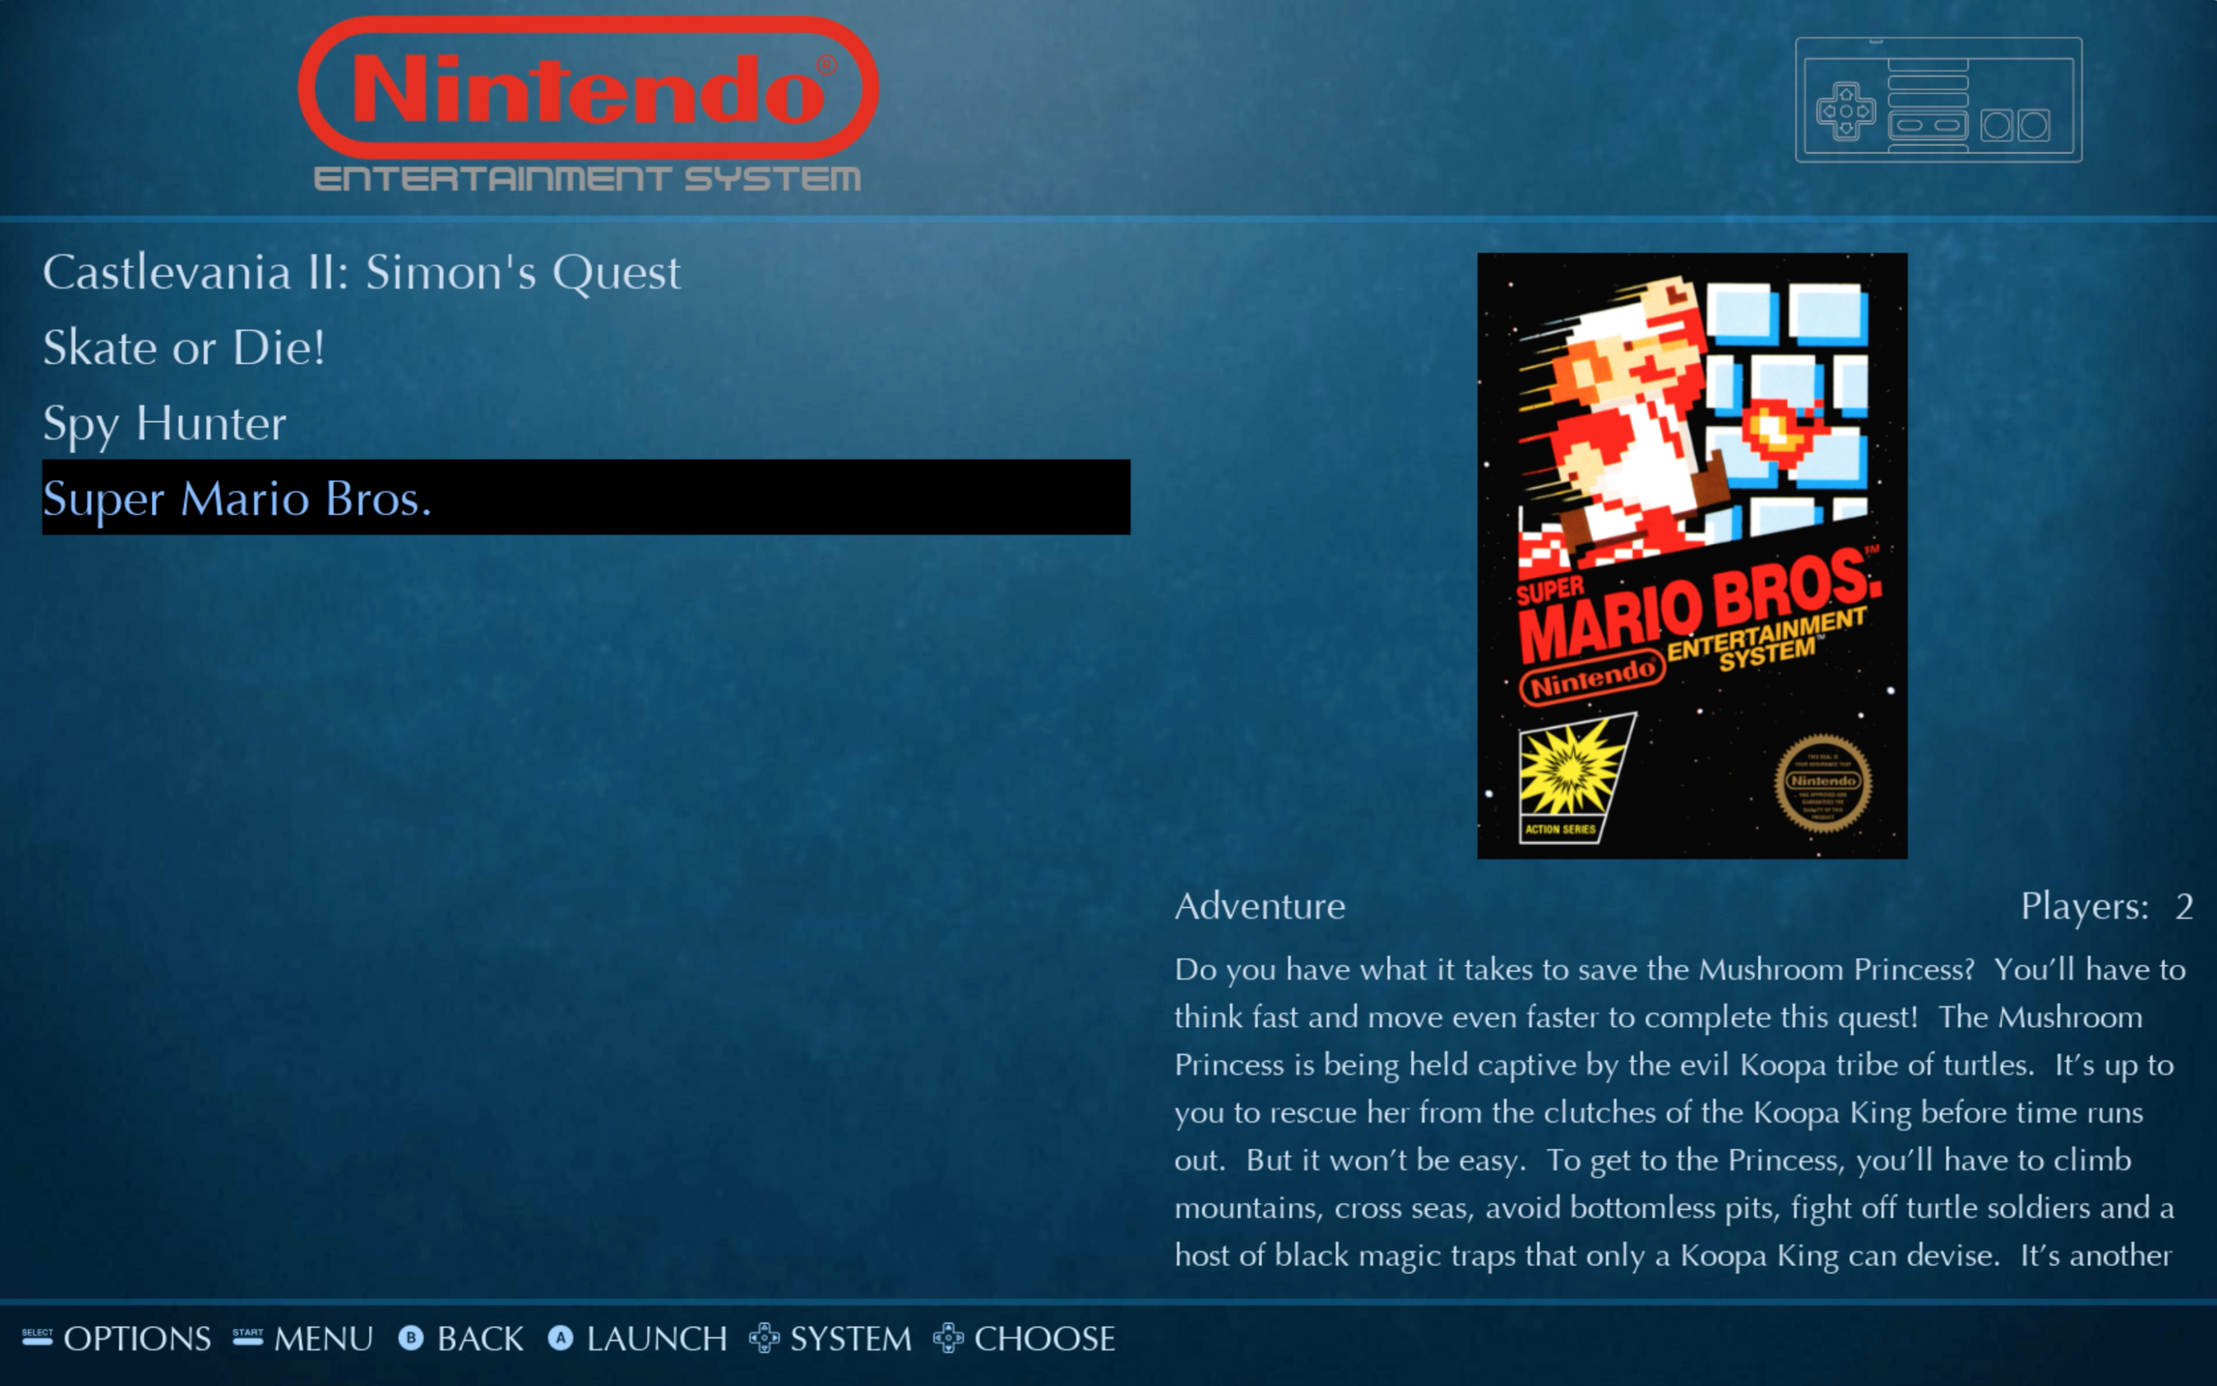
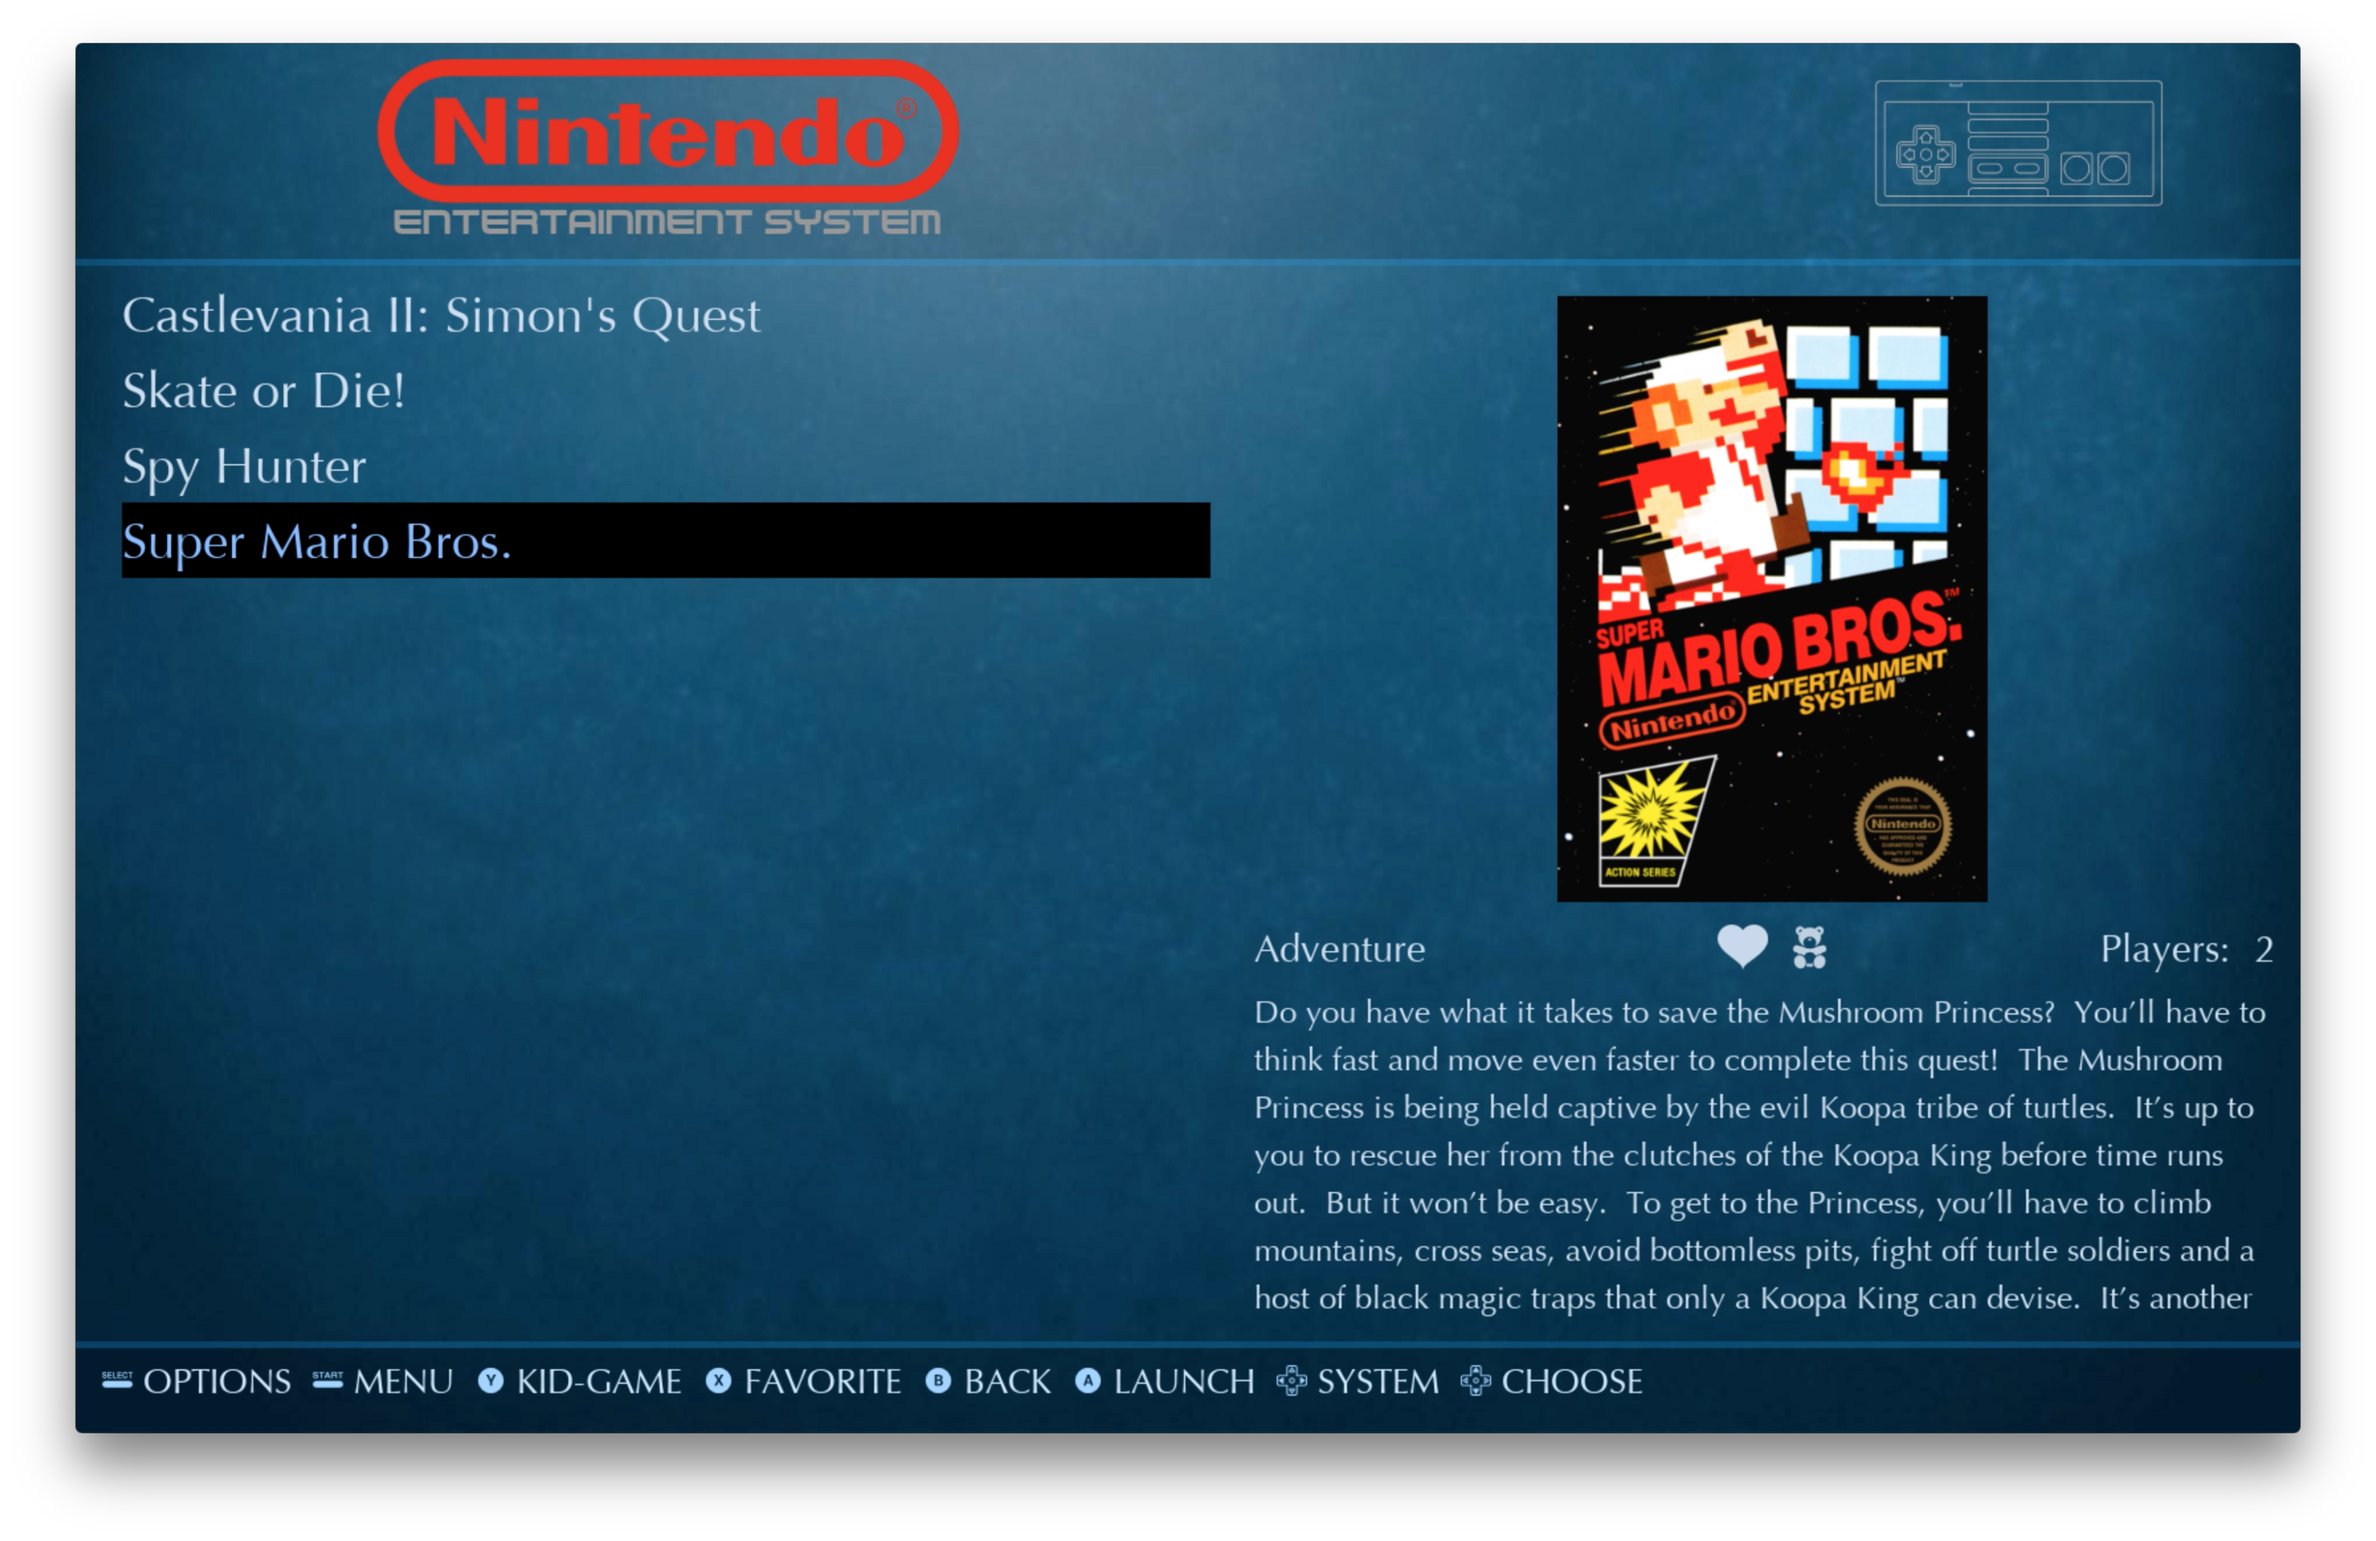
support kids mode

diff --git a/README.md b/README.md
@@ -7,4 +7,8 @@ on the standard [Carbon theme](https://github.com/RetroPie/es-theme-carbon) but 
 
 ![Details View](/art/screenshots/details.png?raw=true)
 
+You can see in this second picture that this theme supports kids/favorites/hidden (not shown). To take advantage of this
+you need to install the `emulatationstation-kids` experimental package. More information can be found
+[here](https://github.com/retropie/retropie-setup/wiki/Child-friendly-EmulationStation).
+
 For information on creating your own theme, check out: [Creating Your Own EmulationStation Theme](https://github.com/RetroPie/RetroPie-Setup/wiki/Creating-Your-Own-EmulationStation-Theme)
